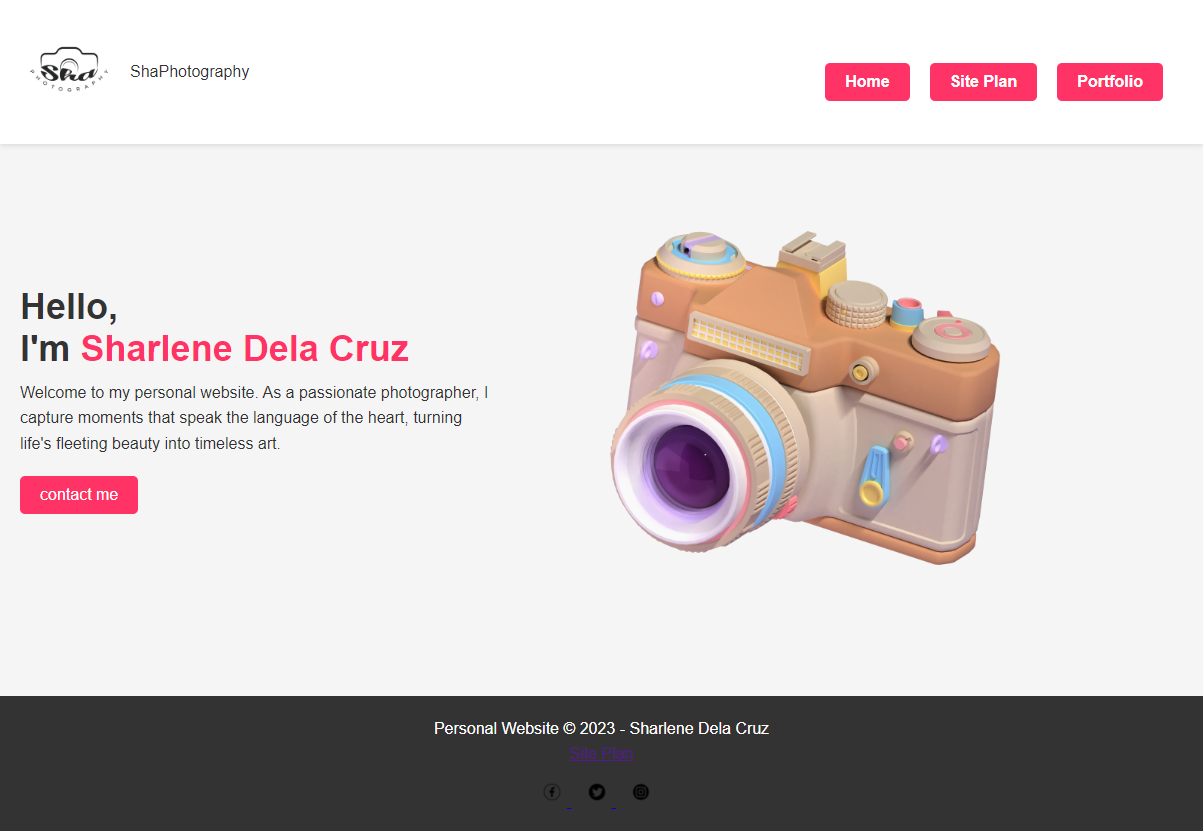
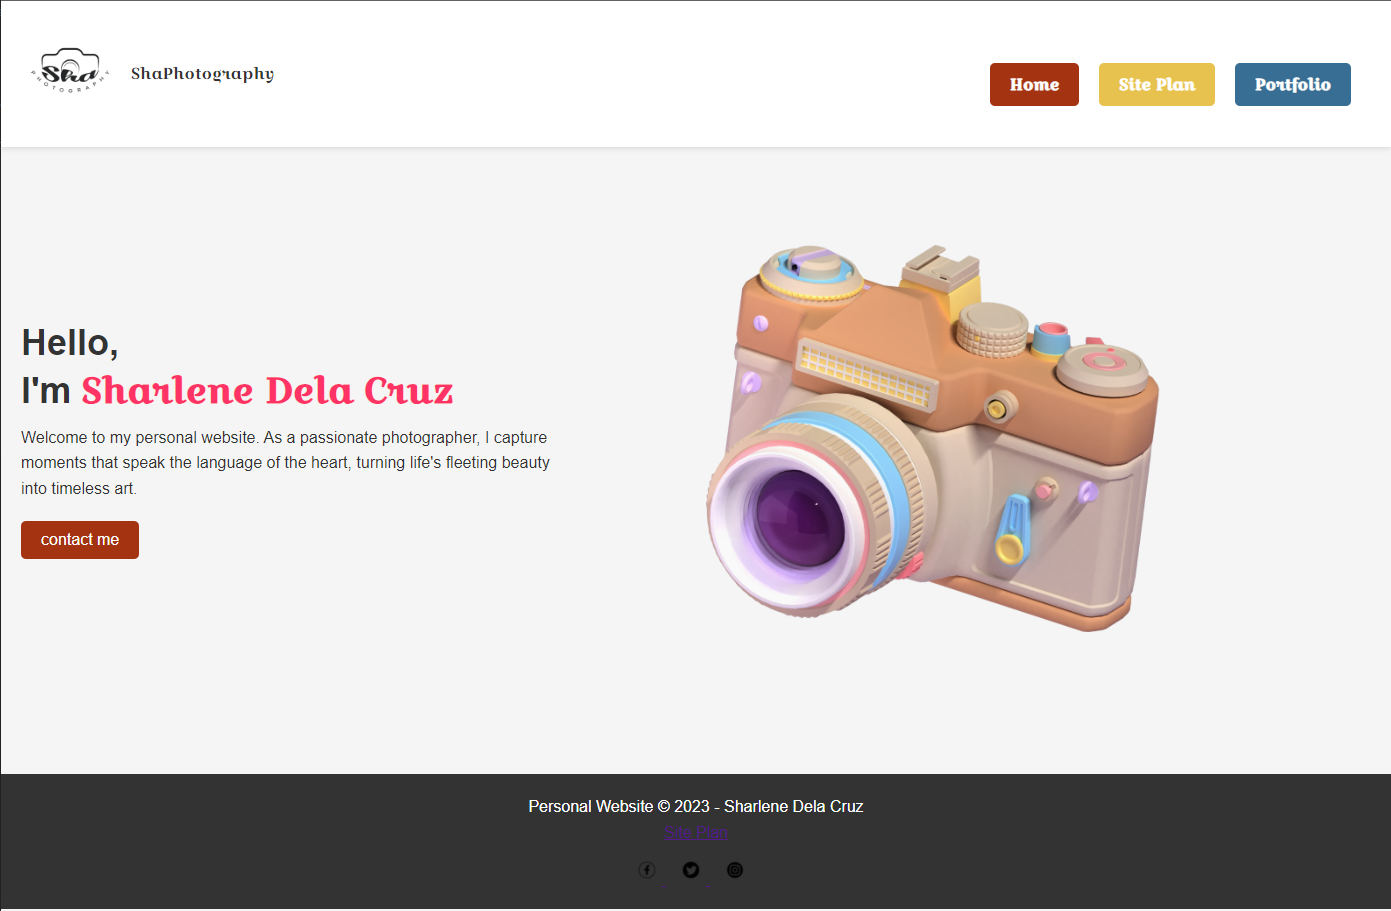
newcom

diff --git a/site-plan.html b/site-plan.html
@@ -27,21 +27,7 @@
         The decision to create a personal photography website was motivated by several factors. First and foremost, my love for photography has been a constant source of inspiration and creativity in my life.  I started by defining the purpose and goals of the website. I wanted it to be a place where visitors could explore my work, learn from my experiences, and potentially hire me for photography services. With these goals in mind, I set out to create a platform that would resonate with my target audience.
         
         The next step was to choose a domain name and hosting provider. </p> 
-        
-        <p>I opted for a domain name that reflected my identity as a photographer, something simple yet memorable. The choice of a hosting provider was equally important, as it would determine the website's performance and accessibility. I selected a reliable hosting service that ensured my website would load quickly and remain accessible at all times.
-        
-        Once the technical aspects were sorted, it was time to design the website. I wanted a clean and visually appealing layout that would highlight my photography and provide an excellent user experience. After researching website design options, I decided to use a content management system (CMS) that allowed me to create a visually stunning and easy-to-navigate site without the need for extensive coding skills.
-        
-        The website's homepage features a captivating image slider that showcases some of my best work. Each image is carefully chosen to represent different styles and themes, giving visitors a taste of my diverse photography portfolio. A well-crafted introduction on the homepage provides a brief overview of my photography journey, emphasizing my passion and dedication to the art.
-        
-        The portfolio section of the website is the heart of my online presence. It's where visitors can explore my collection of photographs, organized into categories such as landscapes, portraits, and street photography. Each image is accompanied by a brief description that provides context, tells a story, or shares technical details about the shot. The portfolio is a testament to the diversity of my work and my ability to capture beauty in various settings and subjects.
-        
-        One of the unique features of my website is the "Behind the Lens" section. In this blog-style section, I share the stories behind some of my most memorable shots. It's an opportunity to give visitors a glimpse into the creative process, the challenges I faced, and the emotions that inspired each photograph. By sharing these stories, I hope to foster a deeper connection with my audience and showcase the passion that drives my work.
-        
-        In addition to the portfolio and "Behind the Lens" sections, I regularly update the website with informative blog posts. These posts cover a wide range of topics related to photography, including tips for beginners, equipment reviews, and discussions on photography as an art form. My aim is to provide valuable content that helps aspiring photographers improve their skills and gain a deeper appreciation for the art of photography.
-        
-        A contact page is also an essential component of the website.</p> 
-        
+   
         <p>It allows potential clients, collaborators, and fellow photographers to get in touch with me easily. I've provided multiple contact options, including a contact form, email address, and links to my social media profiles, to ensure that visitors can reach out in the way that suits them best.
         
         To ensure that the website remains fresh and engaging, I commit to updating it regularly with new content and photographs. This ongoing effort not only keeps visitors coming back for more but also demonstrates my dedication to photography as an ever-evolving art form.
@@ -59,7 +45,7 @@
       <hr>
       <h2>Branding</h2>
       <h3>Website Logo</h3>
-      <!-- Replace this with some sort of logo for your site.  A logo can be as simple as the name of your site in a nice font :) -->
+     
       <img src="images/Logo.png" alt="Logo image">
       <hr>
       <h2>
@@ -117,35 +103,23 @@
       <!-- Think about how you want your navigation bar to look. In the site-plan.css file change the colors to your colors to get the look you desire. --> 
       <nav>
         <a href="site.html">Home</a>
-        <a href="portfolio.html">portfolio</a>
+        <a href="portfolio.html">Portfolio</a>
         <a href="site-plan.html">Site-plan</a>
+        <a href="contact.html">Contact</a>
       </nav>
       <hr>
-      <h2>
-        Site Map
-      </h2>
-      <div class="sitemap">
-        <div class="sm-home">
-          Home
-        </div>
-        <div class="sm-page2">
-          [Portfolio] <!-- change this -->
-        </div>
-        <div class="sm-page3">
-          [Site-plan]  <!-- change this -->
-        </div>
+      <h2>Site Map</h2>
+  <div class="sitemap">
+    <div class="sm-home">Home</div>
+    <div class="sm-page2">[Portfolio]</div>
+    <div class="sm-page3">Contact</div>
+    <div class="sm-page4">[Site-plan]</div>
 
-        <div class="top">
-          &nbsp;
-        </div>
-        <div class="left">
-          &nbsp;
-        </div>
-        <div class="right">
-          &nbsp;
-        </div>
-
-      </div>
+    <div class="top">&nbsp;</div>
+    <div class="left">&nbsp;</div>
+    <div class="left">&nbsp;</div>
+    <div class="right">&nbsp;</div>
+  </div>
 
       <!-- --------Content Section -------------- -->
       <hr>

diff --git a/portfolio.html b/portfolio.html
@@ -4,16 +4,16 @@
     <meta charset="UTF-8">
     <meta name="viewport" content="width=device-width, initial-scale=1.0">
     <title>MY PORTFOLIO</title>
-    <link rel="stylesheet" href="styles/style2.css"> 
+    <link rel="stylesheet" href="styles/portfolio.css"> 
 </head>
 <body>
     <header>
-        <a href="#"><img src="image/face.png" class="face"></a>
+        <a href="contact.html"><img src="image/face.png" class="face"></a>
         <h1>Sharlene Dela Cruz</h1>
         <p>ShaPhotography</p>
         <nav>
             <a href="site.html">Home</a>
-            <a href="portfolio.html">Portfolio</a>
+            <a href="site-plan.html">Site-plan</a>
             <a href="contact.html">Contact</a>
         </nav>
     </header>
@@ -21,8 +21,19 @@
         <section id="about">
             <h2>About Me</h2>
             <p>Hi I'm Sharlene Aniel Dela Cruz, 19 years old from Philippines. 
-                Programming is not just a career for me; it is a lifelong passion. From the moment I wrote my first "Hello World" program, I was captivated by the limitless possibilities that coding offered.
-                 It's not merely a profession but an art form, a creative outlet, and a problem-solving tool that has brought boundless joy into my life.</p>
+                I opted for a domain name that reflected my identity as a photographer, something simple yet memorable. The choice of a hosting provider was equally important, as it would determine the website's performance and accessibility. I selected a reliable hosting service that ensured my website would load quickly and remain accessible at all times.
+        
+        Once the technical aspects were sorted, it was time to design the website. I wanted a clean and visually appealing layout that would highlight my photography and provide an excellent user experience. After researching website design options, I decided to use a content management system (CMS) that allowed me to create a visually stunning and easy-to-navigate site without the need for extensive coding skills.
+        
+        The website's homepage features a captivating image slider that showcases some of my best work. Each image is carefully chosen to represent different styles and themes, giving visitors a taste of my diverse photography portfolio. A well-crafted introduction on the homepage provides a brief overview of my photography journey, emphasizing my passion and dedication to the art.
+        
+        The portfolio section of the website is the heart of my online presence. It's where visitors can explore my collection of photographs, organized into categories such as landscapes, portraits, and street photography. Each image is accompanied by a brief description that provides context, tells a story, or shares technical details about the shot. The portfolio is a testament to the diversity of my work and my ability to capture beauty in various settings and subjects.
+        
+        One of the unique features of my website is the "Behind the Lens" section. In this blog-style section, I share the stories behind some of my most memorable shots. It's an opportunity to give visitors a glimpse into the creative process, the challenges I faced, and the emotions that inspired each photograph. By sharing these stories, I hope to foster a deeper connection with my audience and showcase the passion that drives my work.
+        
+        In addition to the portfolio and "Behind the Lens" sections, I regularly update the website with informative blog posts. These posts cover a wide range of topics related to photography, including tips for beginners, equipment reviews, and discussions on photography as an art form. My aim is to provide valuable content that helps aspiring photographers improve their skills and gain a deeper appreciation for the art of photography.
+        
+        A contact page is also an essential component of the website.</p>
         </section>
         <section id="portfolio">
             <h2>Portfolio</h2>
@@ -38,20 +49,20 @@
             </div>
             
         </section>
-        <section id="contact">
-            <h2>Contact Me</h2>
+
+        <footer>
+            <p>Personal Website &copy; 2023 - Sharlene Dela Cruz</p>
+            <p><a href="site-plan.html">Site Plan</a></p>
             <div class="social">
                 <a href="https://www.facebook.com/Shasha.0217">
-                    <img src="image/facebook.png" alt="fb icon">
+                    <img src="image/facebook.png" alt="Facebook icon">
                 </a>
                 <a href="https://twitter.com">
-                    <img src="image/twitter.png" alt="twitter icon">
+                    <img src="image/twitter.png" alt="Twitter icon">
                 </a>
                 <a href="https://instagram.com">
-                    <img src="image/instagram.png" alt="instagram icon">
+                    <img src="image/instagram.png" alt="Instagram icon">
                 </a>
             </div>
-        </section>
-    </div>
-</body>
-</html>
+        </footer>
+        

diff --git a/styles/portfolio.css b/styles/portfolio.css
@@ -1,0 +1,122 @@
+@import url('https://fonts.googleapis.com/css2?family=Croissant+One&family=Roboto+Condensed&display=swap');
+:root {
+    --heading-font: "Croissant One";
+    --paragraph-font: RobotoCondensed, Helvetica, sans-serif;
+}
+
+
+body 
+{
+    font-family: var(--paragraph-font);
+    background-color: #e7c24f;
+    margin: 0;
+    padding: 0;
+}
+header 
+{
+    background-color: #a43312;
+    color: #ffffff;
+    text-align: center;
+    padding: 5px;
+    font-family: var(--heading-font);
+    box-shadow: 4 4px 7px rgba(0, 0, 0, 0.1);
+}
+header a img
+{
+    max-width: 100px;  
+}
+header h1 a 
+{
+    font-family: var(--paragraph-font);
+    font-size: 50px;
+    color: #e7c24f;
+}
+header h1 
+{
+    font-family: var(--paragraph-font);
+    margin: 0;
+}
+nav 
+{
+    font-family: var(--paragraph-font);
+    text-align: center;
+    margin-top: 20px;
+}
+nav a 
+{
+    text-decoration: none;
+    color: #396e94;
+    font-weight: bold;
+    margin: 10px;
+    background-color: #aabd8c;
+    padding: 20px 30px;
+    border-radius: 5px;
+    box-shadow: 0 3px 6px rgba(0, 0, 0, 0.1);
+    
+}
+nav a:hover
+{
+    transform: translateY(-15px); 
+}
+.container 
+{
+    max-width: 800px;
+    margin: 0 auto;
+    padding: 20px;
+    background-color: #396e94;
+}
+.project {
+    text-align: center;
+    margin-bottom: 20px;
+  }
+
+  h2 {
+    color:#a43312;
+  }
+
+  img {
+    display: block;
+    margin: 0 auto; /* Center the image horizontally */
+    max-width: 100%;
+    height: auto;
+  }
+
+  p {
+    color: #ffffff;
+  }
+
+  footer {
+    background-color: #333;
+    color: #fff;
+    padding: 20px 0;
+    text-align: center;
+  }
+
+  footer p {
+    margin: 0;
+  }
+
+  footer a {
+    color: #e7c24f;
+    text-decoration: none;
+  }
+
+  footer a:hover {
+    text-decoration: underline;
+  }
+
+  .social {
+    margin-top: 10px;
+  }
+
+  .social a {
+    display: inline-block;
+    margin: 0 10px;
+  }
+
+  .social img {
+    width: 30px;
+    height: 30px;
+    border-radius: 50%;
+  }
+

diff --git a/styles/site-plan.css b/styles/site-plan.css
@@ -27,7 +27,6 @@ Fonts are separated by a | */
 }
 
 
-/*  Look around below...but DON'T CHANGE ANYTHING! */
 
 body {
   max-width: 1200px;
@@ -128,31 +127,39 @@ nav a:hover {
 .sitemap {
   display: grid;
   justify-content: center;
-
   grid-template-columns: repeat(6, 15%);
   grid-template-rows: 3em 1.5em 1.5em 3em;
-  grid-template-areas: ". . home home . ."
+  grid-template-areas:
+    ". . home home . ."
     ". . . top . ."
     ". left left right right ."
     "page2 page2 . . page3 page3";
 }
+
 .sitemap > div {
-
   text-align: center;
-
 }
+
 .sm-home {
   grid-area: home;
   background-color: #ccc;
   line-height: 3em;
 }
+
 .sm-page2 {
   grid-area: page2;
   background-color: #ccc;
   line-height: 3em;
 }
+
 .sm-page3 {
   grid-area: page3;
+  background-color: #ccc;
+  line-height: 3em;
+}
+
+.sm-page4 {
+  grid-area: page4;
   background-color: #ccc;
   line-height: 3em;
 }
